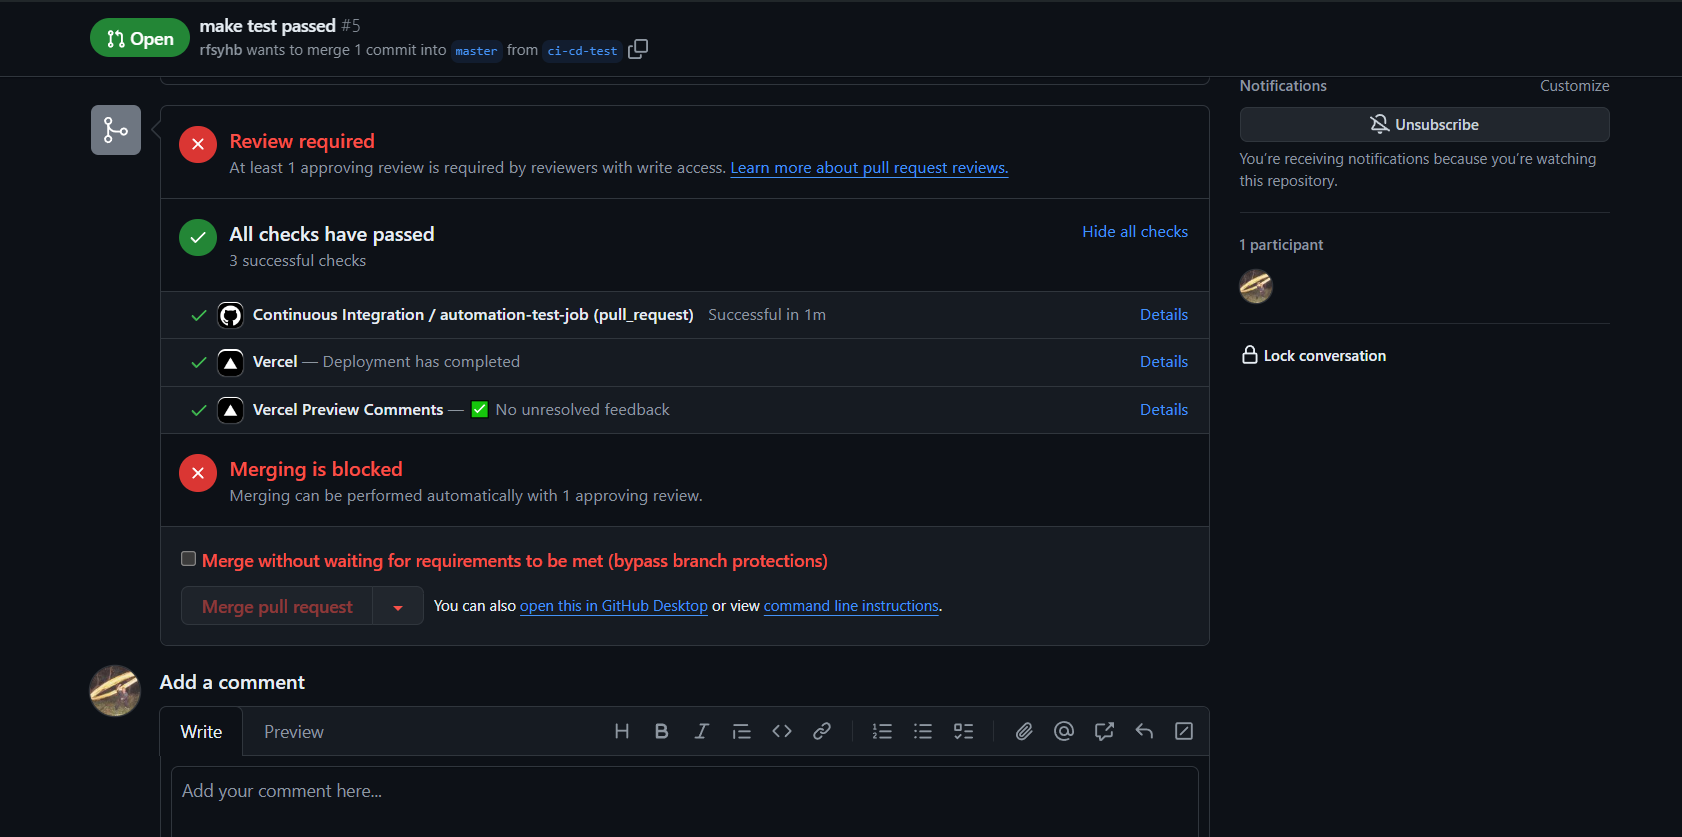
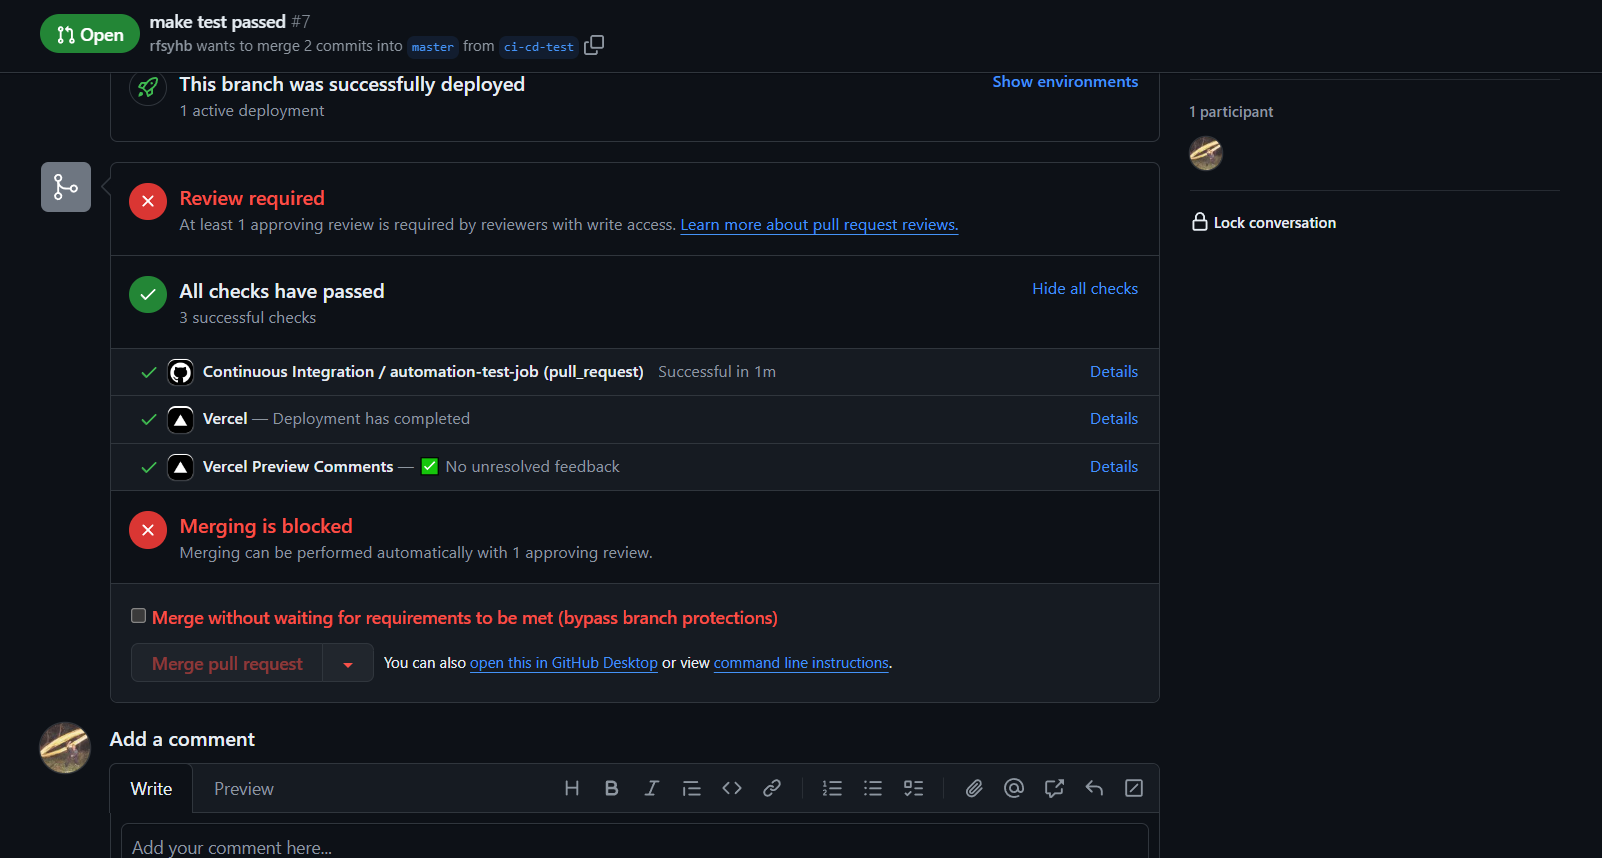
update agar dapat routing ke /(*)

diff --git a/vite.config.js b/vite.config.js
@@ -7,4 +7,10 @@ export default defineConfig({
   test: {
     environment: 'jsdom',
   },
+  rewrites: [
+    {
+      source: '/(.*)',
+      destination: '/',
+    },
+  ],
 });
